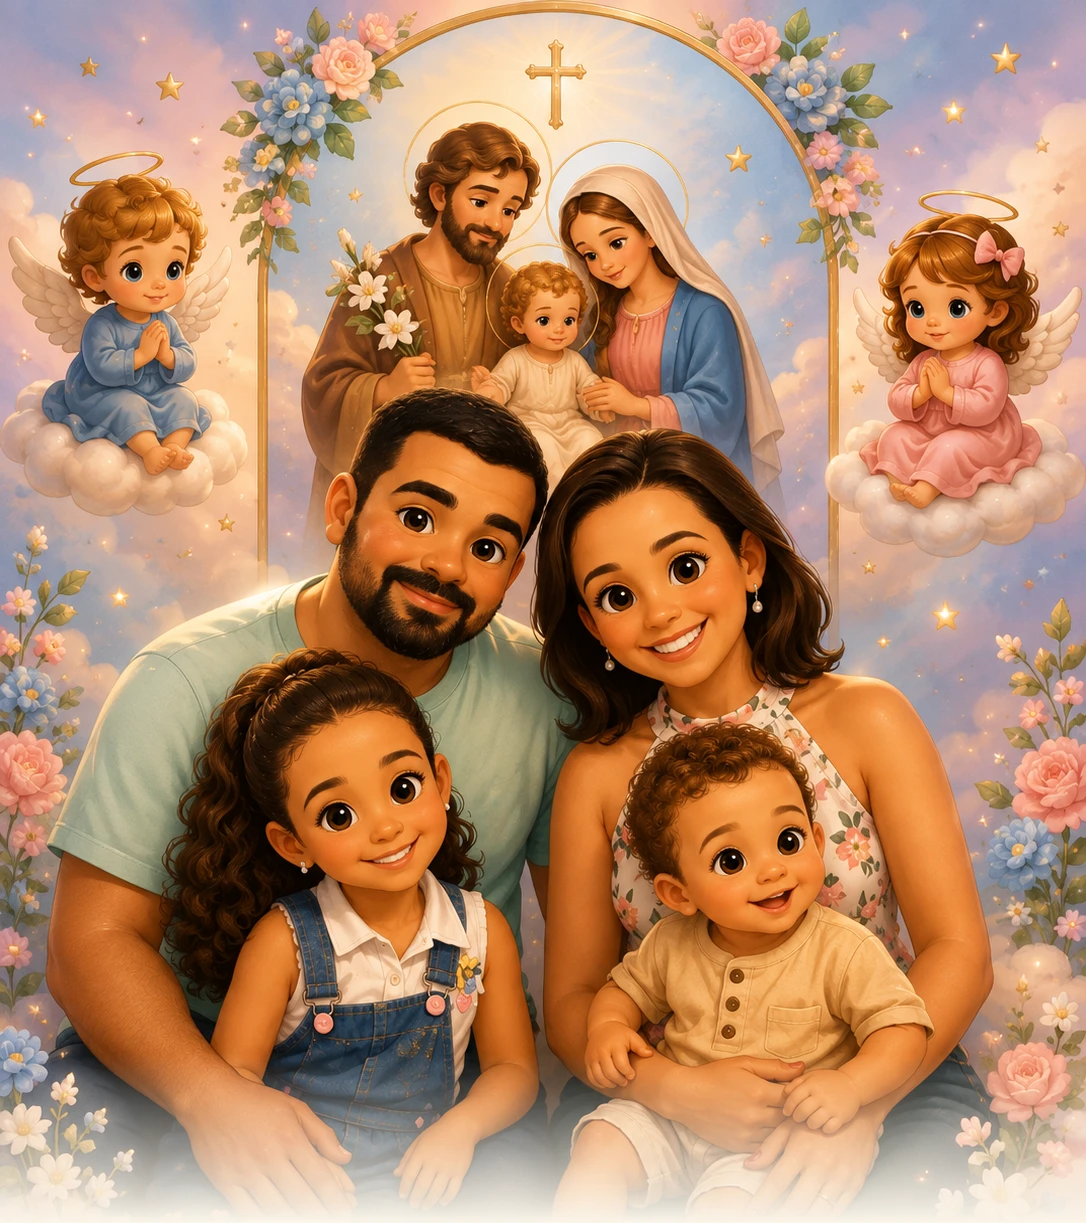
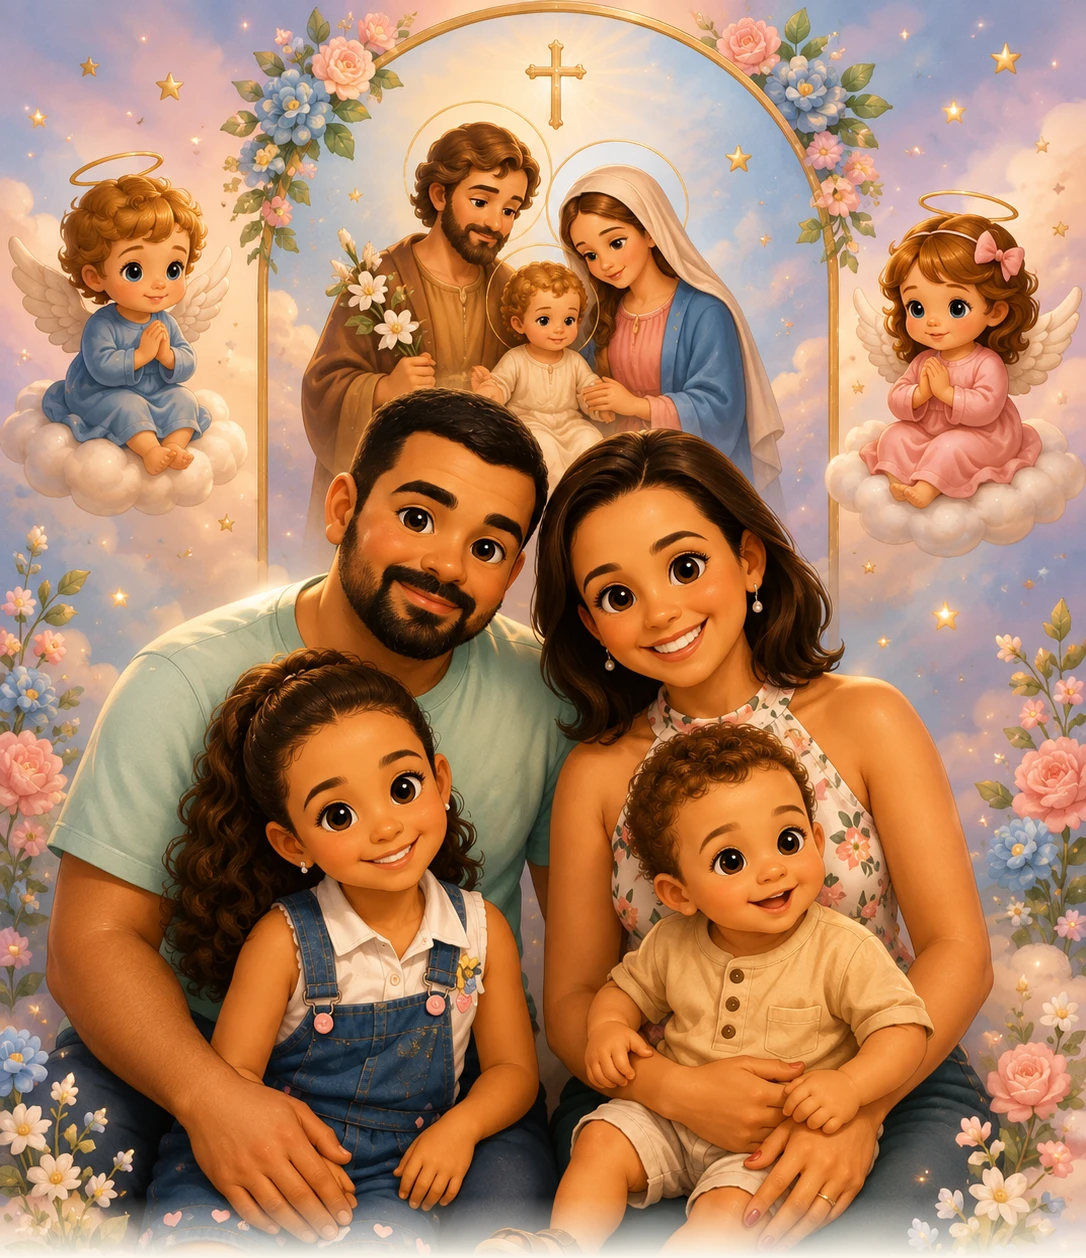
Ajusta recorte da ilustração da família

diff --git a/src/components/Hero/Hero.tsx b/src/components/Hero/Hero.tsx
@@ -42,7 +42,7 @@ export function Hero() {
             alt={`Ilustração da família de ${sofia.name} e ${samuel.name} em estilo infantil, inspirada na Sagrada Família`}
             className="hero__illustration"
             width={1086}
-            height={1223}
+            height={1258}
             loading="eager"
           />
         </div>
